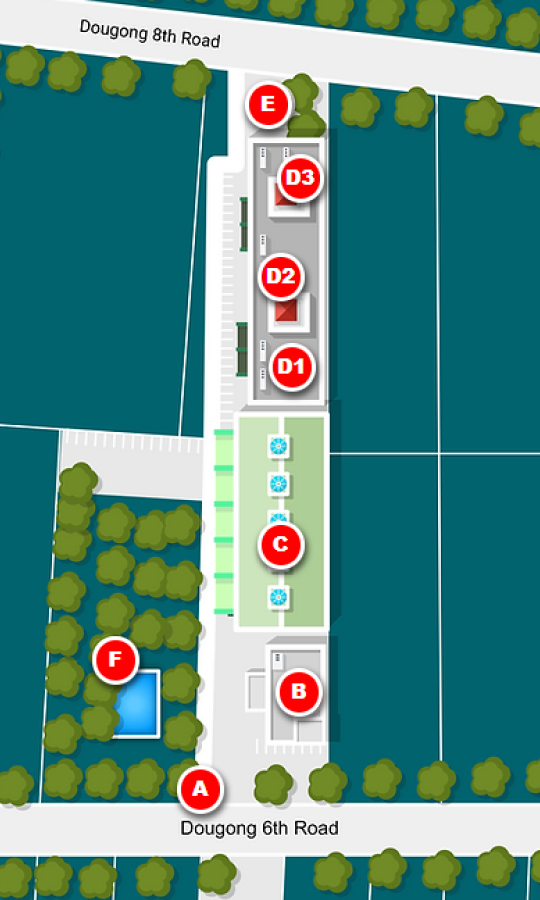
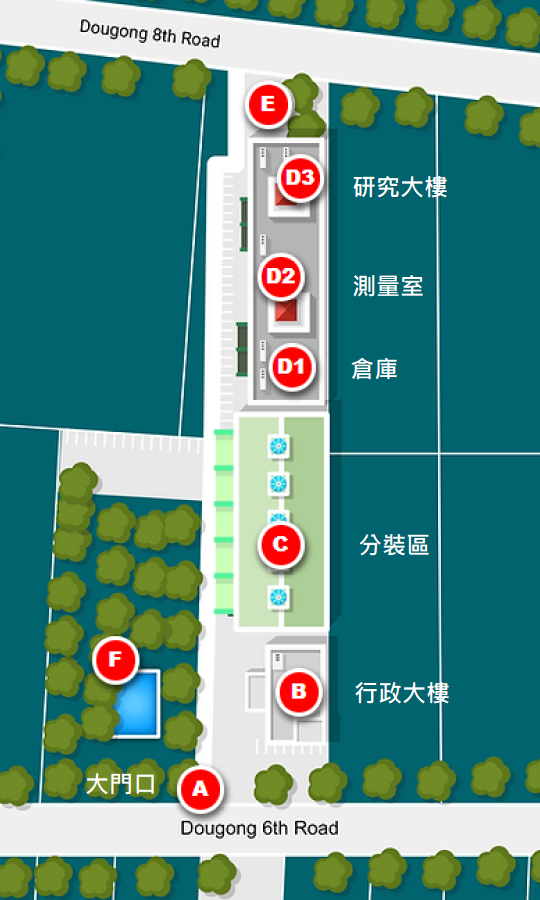
新增現在位置、地圖命名

diff --git a/style.css b/style.css
@@ -273,29 +273,36 @@ p {
   padding-right: 0px;
   height: 703px;
 }
-
-.map-box > .map-point {
+.map-box > .point {
   display: none;
+  z-index: 9999;
+  top: 90%;
+  left: 40%;
+  /* transform: translate(-50%, -50%); */
+  transform: translate(-10%,-50%);
+  position: absolute;
+  display: flex;
+  justify-content: center;
+}
+.map-box > .point > .map-point {
   width: 30px;
   height: 30px;
-  z-index: 9999;
-  background: #30ff00;
-  /* top: 280px;
-  left: 190px; */
-  /* top: calc(50% + (703px) - 603px);  */
-  top: 90%; 
-  /* top: calc(100% - 603px + 50px); */
-  left: 40%;
-  transform: translate(-50%,-50%);
-  /* transform: translateX(-50%); */
-  position: absolute;
+  background: #30ff00; 
   border-radius: 50%;
-}
-.map-point {
   opacity: 1;
   animation: point 1s linear reverse infinite;
 }
 
+.map-box > .point > .hint {
+  white-space: nowrap;
+  transform: translate(-60%, -100%);
+  font-weight: bold;
+  font-size: 24px;
+  color:white;
+  background:#26471f;
+  border-radius: 5px;
+
+}
 @keyframes point {
   0% {
     opacity: 0;

diff --git a/main.js b/main.js
@@ -1789,7 +1789,7 @@ var mapBtn = document.querySelector(".menu-box__map");
 var mapMenu = document.querySelector(".map-box");
 var infoMenu = document.querySelector(".guide-box");
 
-var point = document.querySelector(".map-point");
+var point = document.querySelector(".point");
 
 menuBtn.addEventListener("click", function () {
   infoMenu.classList.toggle("active");

diff --git a/index.html b/index.html
@@ -88,7 +88,10 @@
       </div>
       <div class="map-box">
         <img class="map" src="./images/map.png" />
-        <div class="map-point">123</div>
+        <div class="point">
+          <div class="map-point"></div>
+          <span class="hint"> 現在位置 </span>
+        </div>
       </div>
 
       <div class="info-container"></div>
